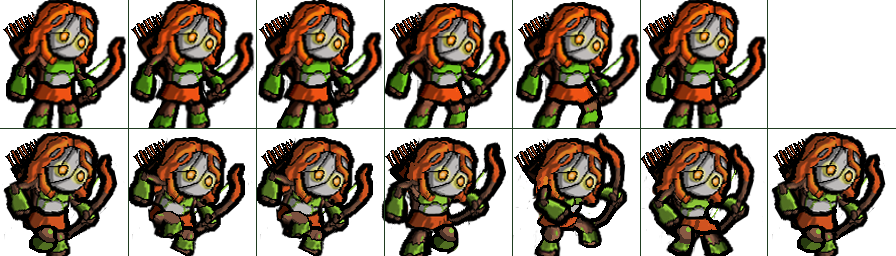
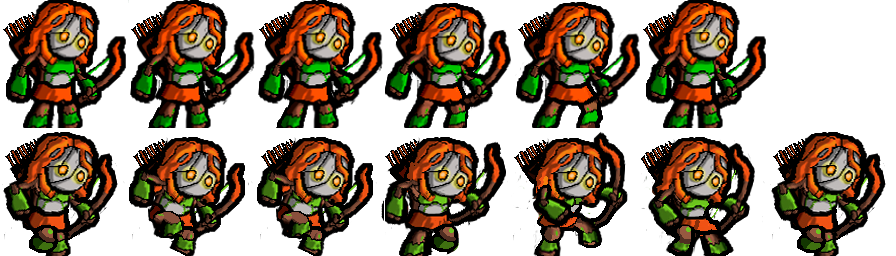
Mejor

diff --git a/core/src/es/cdv/AssetsLoader.java b/core/src/es/cdv/AssetsLoader.java
@@ -21,10 +21,24 @@ public class AssetsLoader {
         playerAutumn = getSplit("player_autumn.png", 128, 128);
         tiles = getSplit("tiles.jpg", 64, 64);
 
-        background = new TextureRegion(new Texture("background.jpg"));
+        background = getRegion("background.jpg");
     }
 
     private static TextureRegion[][] getSplit(String name, int width, int height) {
-        return new TextureRegion(new Texture(name)).split(width, height);
+        Texture texture = getTexture(name);
+        return new TextureRegion(texture).split(width, height);
     }
+
+    private static TextureRegion getRegion(String name) {
+        Texture texture = getTexture(name);
+        return new TextureRegion(texture);
+    }
+
+    private static Texture getTexture(String name) {
+        Texture texture = new Texture(name);
+        //Lineal = suavizado,  Nearest (por defecto) = pixelado
+        texture.setFilter(Texture.TextureFilter.Linear, Texture.TextureFilter.Linear);
+        return texture;
+    }
+
 }
